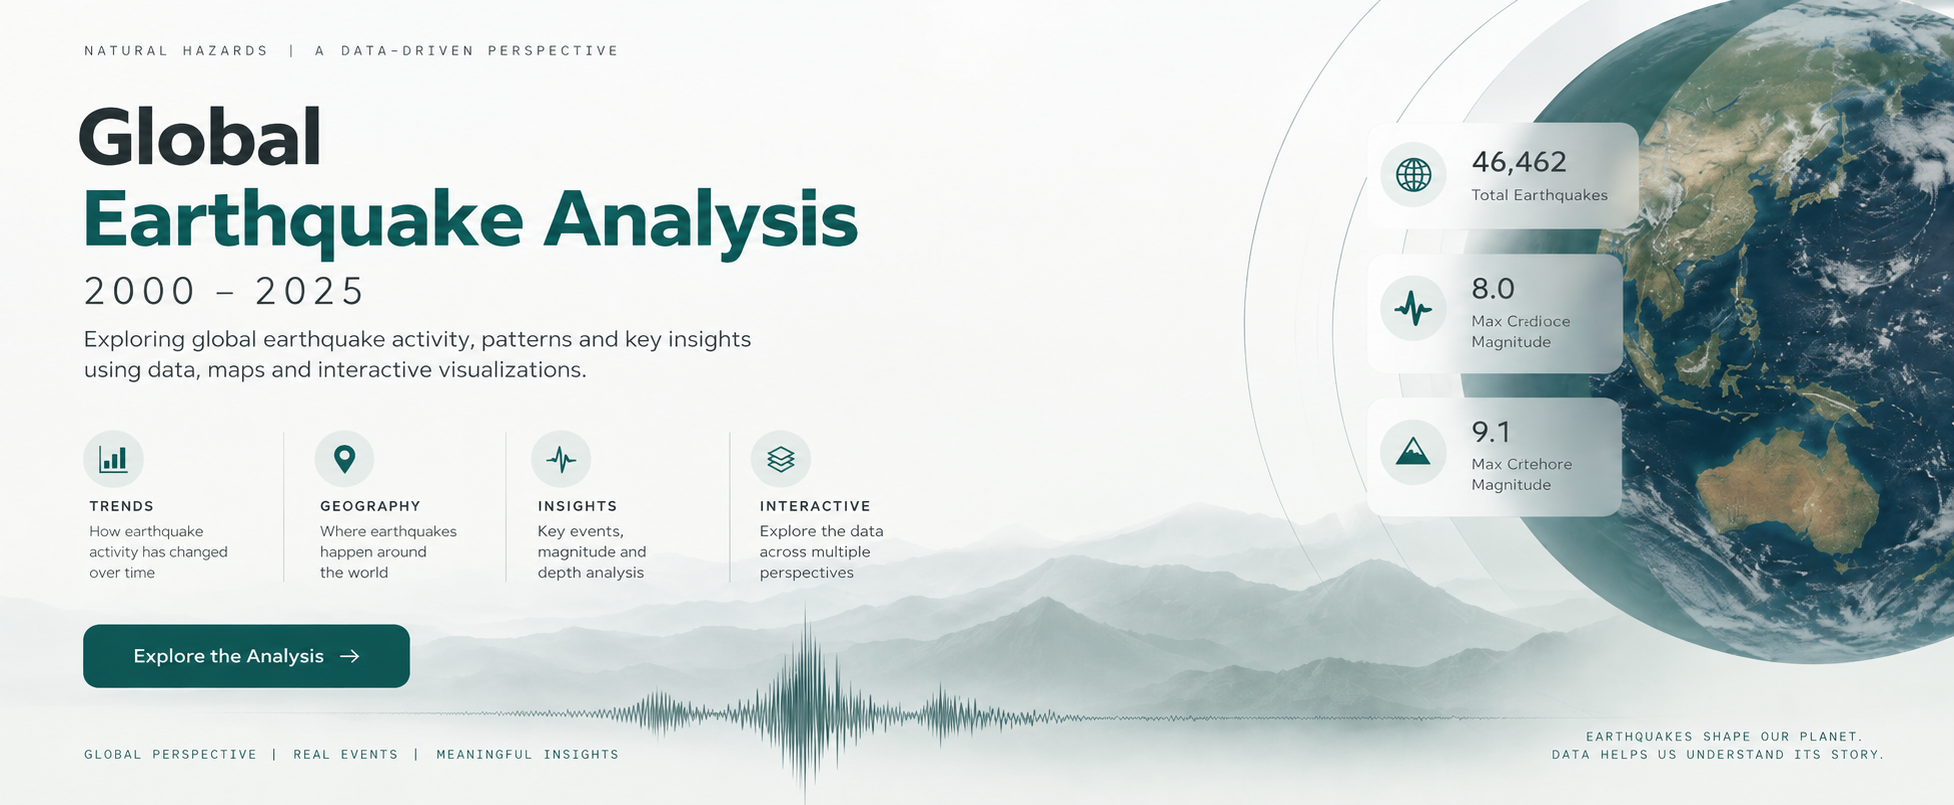
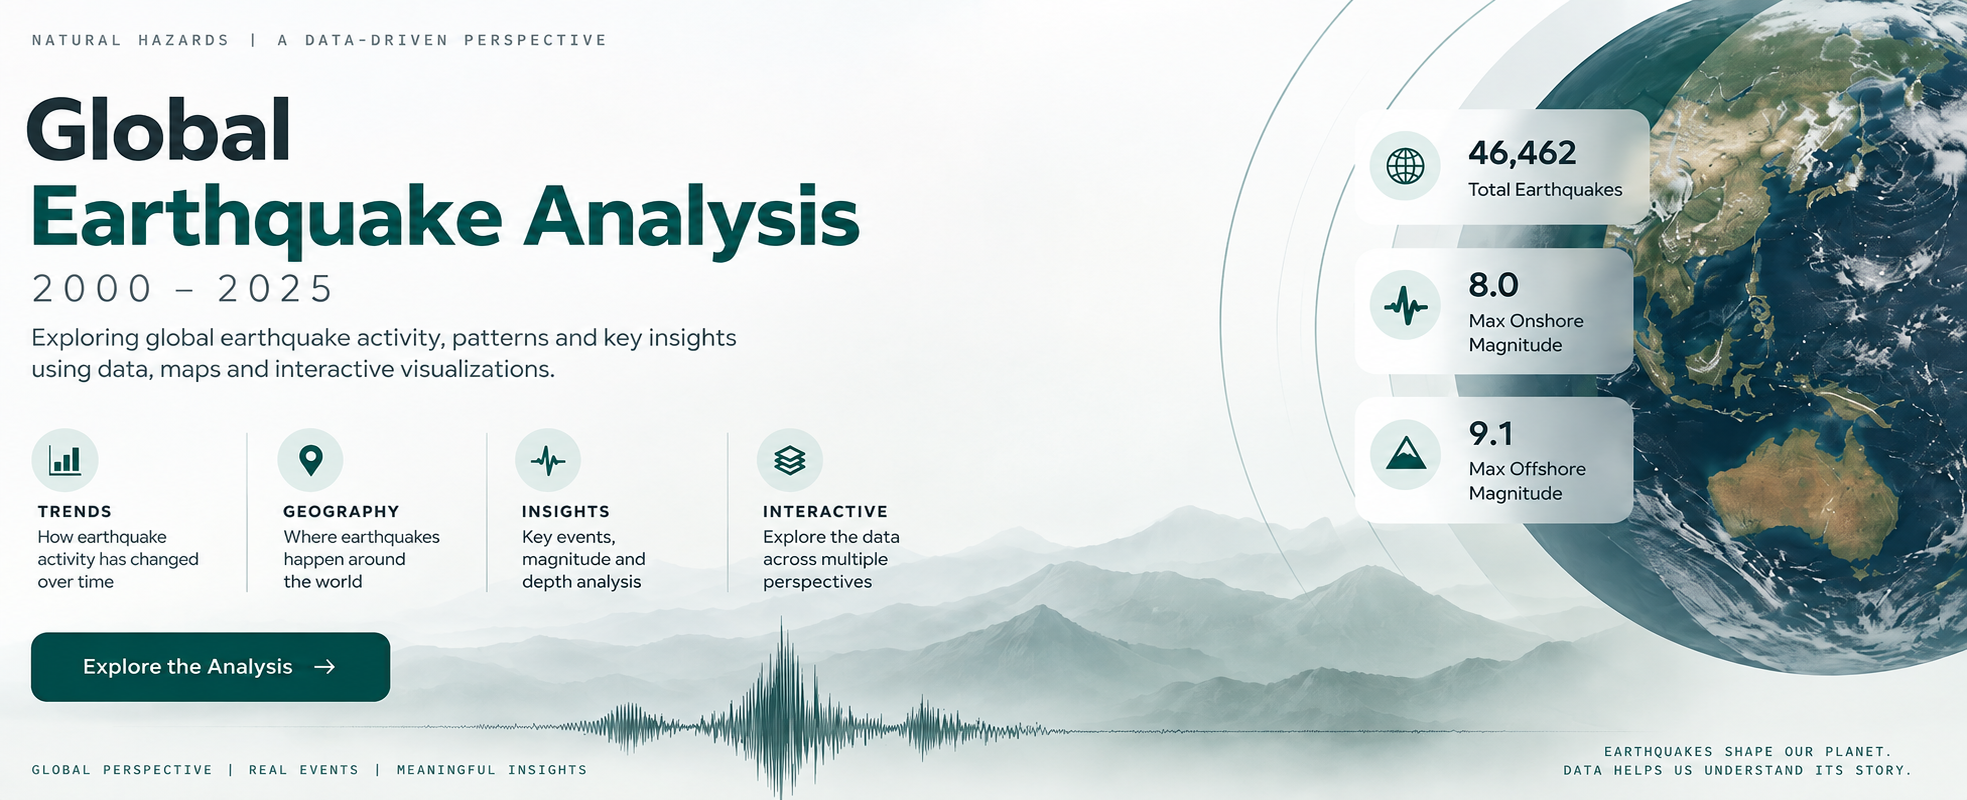
Add files via upload

diff --git a/index.html b/index.html
@@ -70,17 +70,18 @@
           <div class="projects-grid">
             <article class="project-card">
               <div class="project-image-wrap">
-                <img src="assets/project-earthquake.png" alt="Okładka projektu Global Earthquake Analysis" width="1946" height="810" loading="lazy" />
+                <img src="assets/project-earthquake.png" alt="Okładka projektu Global Earthquake Analysis" width="1967" height="800" loading="lazy" />
               </div>
               <div class="project-content">
                 <h3>Global Earthquake Analysis | 2000–2025</h3>
-                <p>Analiza 46 462 trzęsień ziemi z lat 2000–2025, łącząca SQL Server, QGIS i Power BI w analizie czasowej, geograficznej oraz analizie magnitudy i głębokości.</p>
+                <p>Globalna analiza 46 462 trzęsień ziemi z wykorzystaniem SQL Server, QGIS, Power BI i Pythona, obejmująca wzorce czasowe i geograficzne oraz porównanie zdarzeń lądowych i offshore.</p>
                 <ul class="tags" aria-label="Technologie">
-                  <li>SQL Server</li><li>SQL</li><li>Power BI</li><li>DAX</li><li>QGIS</li>
+                  <li>SQL Server</li><li>Power BI</li><li>QGIS</li><li>Python</li><li>DAX</li>
                 </ul>
                 <div class="project-links">
                   <a class="project-link project-link-secondary" href="https://github.com/spalka17/global-earthquake-analysis" target="_blank" rel="noopener noreferrer">GitHub ↗</a>
-                  <a class="project-link project-link-primary" href="https://app.powerbi.com/view?r=eyJrIjoiYWFhMGNmYTItM2FlOS00NGI3LTkyNGYtYWRlNTgwMGIyMTlmIiwidCI6Ijc1YzJlNGQ0LWQwNGMtNGNlOS1hMGVhLWM5NzViZGM0MTdlYiIsImMiOjF9&amp;embedImagePlaceholder=true" target="_blank" rel="noopener noreferrer">Power BI ↗</a>
+                  <a class="project-link project-link-primary" href="https://app.powerbi.com/view?r=eyJrIjoiNTQ1YWUzODgtODZmNy00MzBjLTg5YTEtMTM4NjA0MzdkMmJhIiwidCI6Ijc1YzJlNGQ0LWQwNGMtNGNlOS1hMGVhLWM5NzViZGM0MTdlYiIsImMiOjF9&amp;embedImagePlaceholder=true" target="_blank" rel="noopener noreferrer">Power BI ↗</a>
+                  <a class="project-link project-link-secondary" href="https://colab.research.google.com/drive/1mkUwWq1bZU7Vy5msHLRfapL_AFs6Uo-A?usp=sharing" target="_blank" rel="noopener noreferrer">Python ↗</a>
                 </div>
               </div>
             </article>
